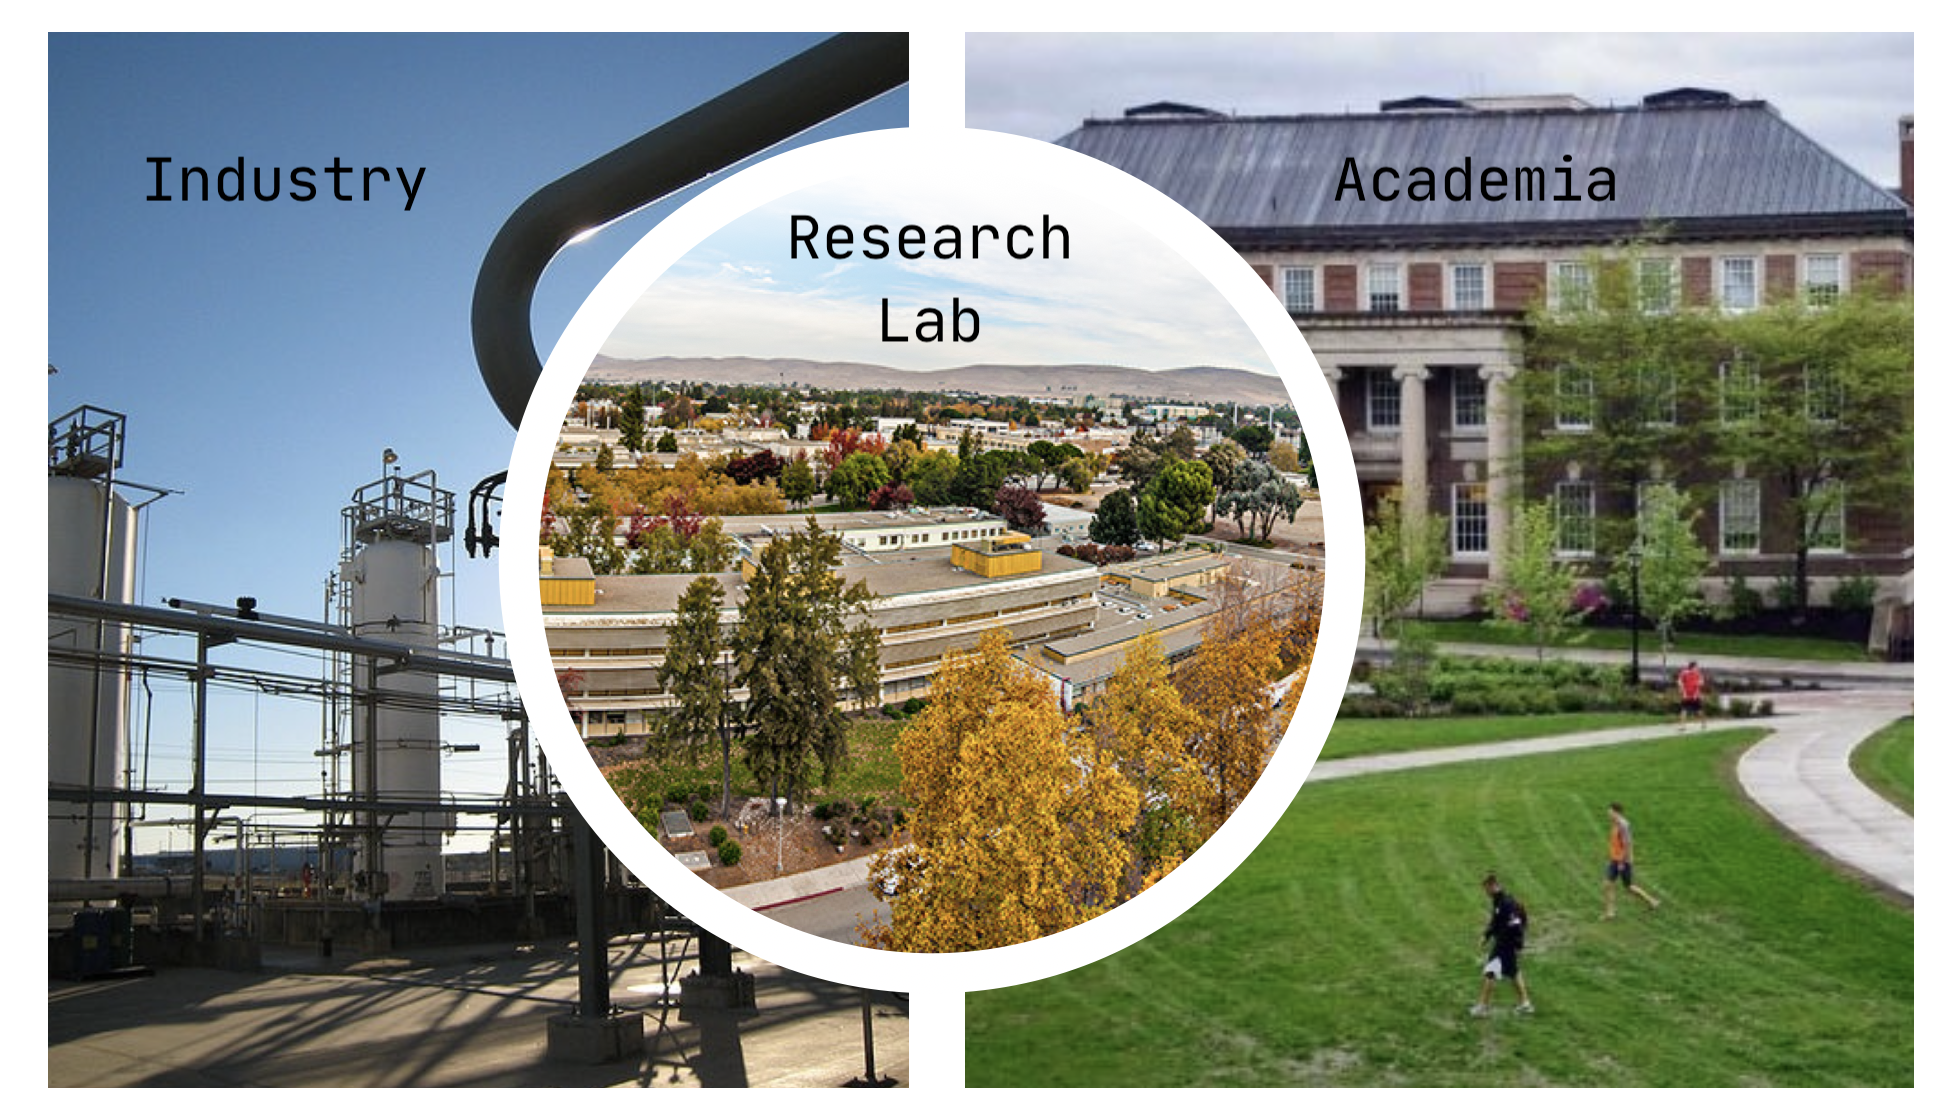
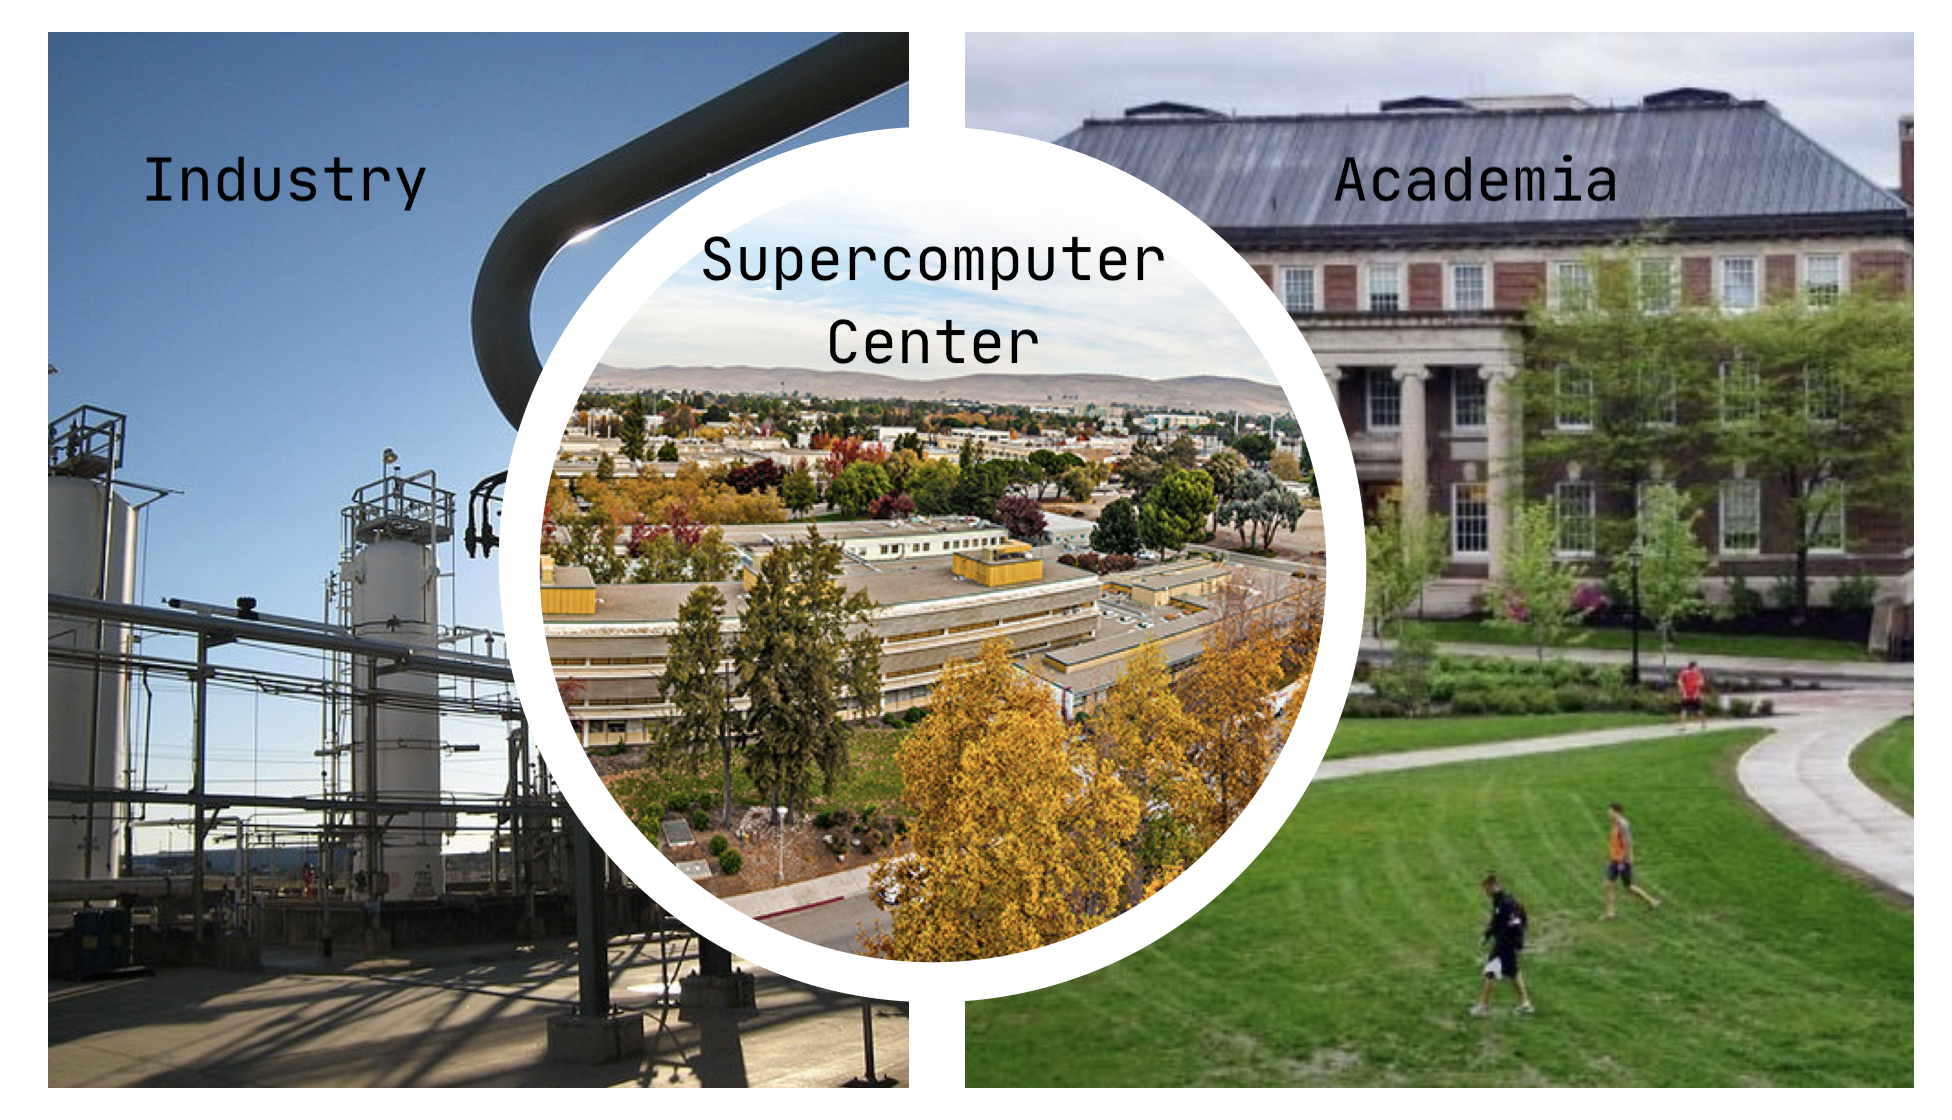
career paths talk edits

Changed region(s): [[0.25, 0.1875, 0.6875, 0.9062]]

diff --git a/ihpcss/career-paths.html b/ihpcss/career-paths.html
@@ -26,17 +26,17 @@
 <body>
 <div class="reveal">
 <div class="slides">
-<section id="sec-title-slide"><h1 class="title">IHPCSS Mentoring: Career Workshop</h1><h2 class="author">Elsa Gonsiorowski</h2><h2 class="date">July  8, 2021</h2><p class="date">Created: 2021-07-14 Wed 14:54</p>
+<section id="sec-title-slide"><h1 class="title">IHPCSS Mentoring: Career Workshop</h1><h2 class="author">Elsa Gonsiorowski</h2><h2 class="date">July  8, 2021</h2><p class="date">Created: 2021-07-22 Thu 20:35</p>
 </section>
 
 <section>
-<section id="slide-org49ef614">
-<h2 id="org49ef614"><span class="section-number-2">1</span> Session Overview</h2>
+<section id="slide-org06131cd">
+<h2 id="org06131cd"><span class="section-number-2">1</span> Session Overview</h2>
 <div class="outline-text-2" id="text-1">
 </div>
 </section>
-<section id="slide-org02b02d9">
-<h3 id="org02b02d9"><span class="section-number-3">1.1</span> Schedule</h3>
+<section id="slide-orgaf578c1">
+<h3 id="orgaf578c1"><span class="section-number-3">1.1</span> Schedule</h3>
 <table border="2" cellspacing="0" cellpadding="6" rules="groups" frame="hsides">
 
 
@@ -63,32 +63,36 @@
 </tbody>
 </table>
 </section>
-<section id="slide-org4088b93">
-<h3 id="org4088b93"><span class="section-number-3">1.2</span> Disclaimer</h3>
+<section id="slide-org2bd4b82">
+<h3 id="org2bd4b82"><span class="section-number-3">1.2</span> Disclaimer</h3>
 <ul>
-<li>This is a <i>quick</i> talk, with links to many other resources.</li>
-<li>You don't need to know what you exactly what you want to do, but it's good to have an idea of the possibilities.</li>
-<li>Talk to the staff here about their career paths and see which options appeal to you.</li>
+<li>This is a <i>quick</i> talk, with links to some other resources.</li>
+<li>You don't need to know exactly what you want to do, but it's good to have an idea of the possibilities.</li>
+<li>Talk to the staff here about their career experiences and see which options appeal to you.
+<ul>
+<li>A good place to do this will be at Monday's mentoring session: The Resource Fair</li>
+
+</ul></li>
 
 </ul>
 </section>
-<section id="slide-org7f08ea5">
-<h3 id="org7f08ea5"><span class="section-number-3">1.3</span> General Career Paths</h3>
+<section id="slide-org962fc24">
+<h3 id="org962fc24"><span class="section-number-3">1.3</span> General Career Paths</h3>
 
-<div id="org9518ea0" class="figure">
+<div id="org86cf7ae" class="figure">
 <p><img src="3-career-paths.png" alt="3-career-paths.png" />
 </p>
 </div>
 </section>
 </section>
 <section>
-<section id="slide-orgb297a51">
-<h2 id="orgb297a51"><span class="section-number-2">2</span> Academia</h2>
+<section id="slide-orgcb1cd50">
+<h2 id="orgcb1cd50"><span class="section-number-2">2</span> Academia</h2>
 <div class="outline-text-2" id="text-2">
 </div>
 </section>
-<section id="slide-orged6ac27">
-<h3 id="orged6ac27"><span class="section-number-3">2.1</span> Academia</h3>
+<section id="slide-orgcecde9e">
+<h3 id="orgcecde9e"><span class="section-number-3">2.1</span> Academia</h3>
 <ul>
 <li>Teaching at a college or university</li>
 <li>Each institution has a difference emphasis on 3 areas:
@@ -102,18 +106,21 @@
 
 </ul>
 </section>
-<section id="slide-orgb8fed45">
-<h3 id="orgb8fed45"><span class="section-number-3">2.2</span> Academic Career Path</h3>
+<section id="slide-org72560db">
+<h3 id="org72560db"><span class="section-number-3">2.2</span> Academic Career Path (US)</h3>
+<p>
+<i>titles may be different in different countries</i>
+</p>
 <ol>
 <li>Post Doc (optional)</li>
-<li>Assistant Professor</li>
+<li>Assistant Professor, tenure track</li>
 <li>Tenure</li>
 <li>Full Professor</li>
 
 </ol>
 </section>
-<section id="slide-org41f8f4e">
-<h3 id="org41f8f4e"><span class="section-number-3">2.3</span> Academia Pros</h3>
+<section id="slide-orgc9b74d7">
+<h3 id="orgc9b74d7"><span class="section-number-3">2.3</span> Academia Pros</h3>
 <ul>
 <li>You get to work with students through teaching and research</li>
 <li>You get to build your own lab</li>
@@ -127,8 +134,8 @@
 
 </ul>
 </section>
-<section id="slide-orga6301de">
-<h3 id="orga6301de"><span class="section-number-3">2.4</span> Academia Cons</h3>
+<section id="slide-orgdb5cdd6">
+<h3 id="orgdb5cdd6"><span class="section-number-3">2.4</span> Academia Cons</h3>
 <ul>
 <li>You <i>have</i> to work with students, teaching whatever classes need to be taught</li>
 <li>Getting tenure is difficult</li>
@@ -136,8 +143,8 @@
 
 </ul>
 </section>
-<section id="slide-orgfbb8095">
-<h3 id="orgfbb8095"><span class="section-number-3">2.5</span> How to Get Started</h3>
+<section id="slide-org51504c8">
+<h3 id="org51504c8"><span class="section-number-3">2.5</span> How to Get Started</h3>
 <ul>
 <li>Try teaching / being a teaching assistant</li>
 <li>Try mentoring undergraduates, new graduate students</li>
@@ -147,21 +154,21 @@
 </section>
 </section>
 <section>
-<section id="slide-org6fb7e28">
-<h2 id="org6fb7e28"><span class="section-number-2">3</span> Industry</h2>
+<section id="slide-orgab05949">
+<h2 id="orgab05949"><span class="section-number-2">3</span> Industry</h2>
 <div class="outline-text-2" id="text-3">
 </div>
 </section>
-<section id="slide-org720ba3f">
-<h3 id="org720ba3f"><span class="section-number-3">3.1</span> Industry</h3>
+<section id="slide-orgef802b2">
+<h3 id="orgef802b2"><span class="section-number-3">3.1</span> Industry</h3>
 <ul>
 <li>Beholden to customers, must create products to sell</li>
 <li>Can work on government contracts / grants</li>
 
 </ul>
 </section>
-<section id="slide-orga3225d5">
-<h3 id="orga3225d5"><span class="section-number-3">3.2</span> Industry Career Path</h3>
+<section id="slide-org49639ff">
+<h3 id="org49639ff"><span class="section-number-3">3.2</span> Industry Career Path</h3>
 <ul>
 <li>Varies by scientific field &amp; company</li>
 <li>Larger companies typically have well-defined career paths with a specific progression of job titles</li>
@@ -175,8 +182,8 @@
 
 </ul>
 </section>
-<section id="slide-org6a35c40">
-<h3 id="org6a35c40"><span class="section-number-3">3.3</span> Industry Pros</h3>
+<section id="slide-org2360af4">
+<h3 id="org2360af4"><span class="section-number-3">3.3</span> Industry Pros</h3>
 <ul>
 <li>Pay is usually higher than academia</li>
 <li>Company perks: free food, stock options, bonuses, sabbaticals</li>
@@ -186,8 +193,8 @@
 
 </ul>
 </section>
-<section id="slide-org1f7c914">
-<h3 id="org1f7c914"><span class="section-number-3">3.4</span> Industry Cons</h3>
+<section id="slide-orge94e548">
+<h3 id="orge94e548"><span class="section-number-3">3.4</span> Industry Cons</h3>
 <ul>
 <li>You have to make a product / make a profit for the company</li>
 <li>Less freedom to do "pure" research</li>
@@ -196,8 +203,8 @@
 
 </ul>
 </section>
-<section id="slide-org12f2a9d">
-<h3 id="org12f2a9d"><span class="section-number-3">3.5</span> How to Get Started</h3>
+<section id="slide-org9d5c55b">
+<h3 id="org9d5c55b"><span class="section-number-3">3.5</span> How to Get Started</h3>
 <ul>
 <li>Look for summer internship programs</li>
 <li>Go to career fairs / recruiting sessions
@@ -211,30 +218,38 @@
 </section>
 </section>
 <section>
-<section id="slide-orgddce36c">
-<h2 id="orgddce36c"><span class="section-number-2">4</span> Research Lab</h2>
+<section id="slide-org8701ad2">
+<h2 id="org8701ad2"><span class="section-number-2">4</span> Supercomputer Center</h2>
 <div class="outline-text-2" id="text-4">
 </div>
 </section>
-<section id="slide-org1668daa">
-<h3 id="org1668daa"><span class="section-number-3">4.1</span> Research Lab</h3>
+<section id="slide-org332fa9f">
+<h3 id="org332fa9f"><span class="section-number-3">4.1</span> Supercomputer Center</h3>
 <ul>
-<li>Could be associated with a University or Government</li>
+<li>Could be associated with a University or Government Research lab</li>
 <li>Funding could depend on current political climate or vary depending on your current project</li>
 <li>Best of both academia and industry worlds:
 <ul>
-<li>No teaching responsibilities (but option to work with summer interns)</li>
+<li>No required teaching responsibilities
+<ul>
+<li>option to work with summer interns</li>
+<li>possibility to do HPC training sessions</li>
+
+</ul></li>
 <li>Understand basic research activities, such as publication and conference attendance</li>
 
 </ul></li>
 
 </ul>
 </section>
-<section id="slide-orgc6dfa08">
-<h3 id="orgc6dfa08"><span class="section-number-3">4.2</span> Research Lab Career Path</h3>
+<section id="slide-orgc448719">
+<h3 id="orgc448719"><span class="section-number-3">4.2</span> Supercomputer Center Career Path</h3>
+<p>
+<i>many paths available, depending on role</i>
+</p>
 <ol>
-<li>Individual contributor</li>
-<li>Project Lead</li>
+<li>Individual contributor; Consultant/user support; Trainer</li>
+<li>Project or Team Lead</li>
 
 </ol>
 <p>
@@ -242,28 +257,30 @@
 3b. Technical Expert
 </p>
 </section>
-<section id="slide-orgf807d50">
-<h3 id="orgf807d50"><span class="section-number-3">4.3</span> Research Lab Pros</h3>
+<section id="slide-orgfdd0045">
+<h3 id="orgfdd0045"><span class="section-number-3">4.3</span> Supercomputer Center Pros</h3>
 <ul>
+<li>Opportunity to do a specific role, such as user support or application development</li>
 <li>Opportunity to do "pure" research/get grants</li>
 <li>Some labs may have a "mission"</li>
-<li>No teaching responsibilities</li>
+<li>No required teaching responsibilities</li>
 <li>Culture typically has good work/life balance</li>
 
 </ul>
 </section>
-<section id="slide-orgc06bf3f">
-<h3 id="orgc06bf3f"><span class="section-number-3">4.4</span> Research Lab Cons</h3>
+<section id="slide-org1439b0c">
+<h3 id="org1439b0c"><span class="section-number-3">4.4</span> Supercomputer Center Cons</h3>
 <ul>
 <li>Government bureaucracy</li>
 <li>Federal funding, not as many perks as industry</li>
 <li>Not as well paid</li>
 <li>Employees are typically there for a long time, some can become "Retired In Place"</li>
+<li>Career path may be limited, depending on size/needs of the center</li>
 
 </ul>
 </section>
-<section id="slide-orgd81a2ec">
-<h3 id="orgd81a2ec"><span class="section-number-3">4.5</span> How to Get Started</h3>
+<section id="slide-org1f532e4">
+<h3 id="org1f532e4"><span class="section-number-3">4.5</span> How to Get Started</h3>
 <ul>
 <li>Look for lab people in your research area, ask about an internship</li>
 <li>Look for summer internship programs</li>
@@ -273,13 +290,13 @@
 </section>
 </section>
 <section>
-<section id="slide-org5640195">
-<h2 id="org5640195"><span class="section-number-2">5</span> Resources</h2>
+<section id="slide-orgb117626">
+<h2 id="orgb117626"><span class="section-number-2">5</span> Resources</h2>
 <div class="outline-text-2" id="text-5">
 </div>
 </section>
-<section id="slide-org434fb1c">
-<h3 id="org434fb1c"><span class="section-number-3">5.1</span> Resources</h3>
+<section id="slide-org31582b7">
+<h3 id="org31582b7"><span class="section-number-3">5.1</span> Resources</h3>
 <ul>
 <li><a href="https://bookshop.org/books/a-phd-is-not-enough-a-guide-to-survival-in-science/9780465022229"><span class="underline">A PhD is Not Enough!</span></a> by Peter J. Feibelman</li>
 <li><a href="https://bookshop.org/books/tomorrow-s-professor-preparing-for-careers-in-science-and-engineering/9780780311367"><span class="underline">Tomorrow's Professor</span></a> by Richard M. Reis</li>
@@ -291,13 +308,13 @@
 </section>
 </section>
 <section>
-<section id="slide-org6ee4505">
-<h2 id="org6ee4505"><span class="section-number-2">6</span> Peer-to-Peer Resume Review</h2>
+<section id="slide-orgea2c538">
+<h2 id="orgea2c538"><span class="section-number-2">6</span> Peer-to-Peer Resume Review</h2>
 <div class="outline-text-2" id="text-6">
 </div>
 </section>
-<section id="slide-org76a2e26">
-<h3 id="org76a2e26"><span class="section-number-3">6.1</span> Peer-to-Peer Resume Review</h3>
+<section id="slide-orgcafcfa6">
+<h3 id="orgcafcfa6"><span class="section-number-3">6.1</span> Peer-to-Peer Resume Review</h3>
 <ul>
 <li>See the "<a href="resume-review.pdf">Reviewing a Resume or CV</a>" handout</li>
 <li>We will do 2 peer-to-peer sessions, 15 minutes each
@@ -311,8 +328,8 @@
 
 </ul>
 </section>
-<section id="slide-org794d57f">
-<h3 id="org794d57f"><span class="section-number-3">6.2</span> Start the timer!</h3>
+<section id="slide-org18e17cb">
+<h3 id="org18e17cb"><span class="section-number-3">6.2</span> Start the timer!</h3>
 <p>
 <a href="https://www.timeanddate.com/timer/">https://www.timeanddate.com/timer/</a>
 </p>
@@ -320,8 +337,8 @@
 </section>
 </section>
 <section>
-<section id="slide-org2394e20">
-<h2 id="org2394e20"><span class="section-number-2">7</span> Credits</h2>
+<section id="slide-org5a8475c">
+<h2 id="org5a8475c"><span class="section-number-2">7</span> Credits</h2>
 <p>
 Created with <a href="https://www.gnu.org/software/emacs/">Emacs</a>, <a href="https://orgmode.org">Org Mode</a>, and <a href="https://revealjs.com">RevealJS</a>.
 </p>
